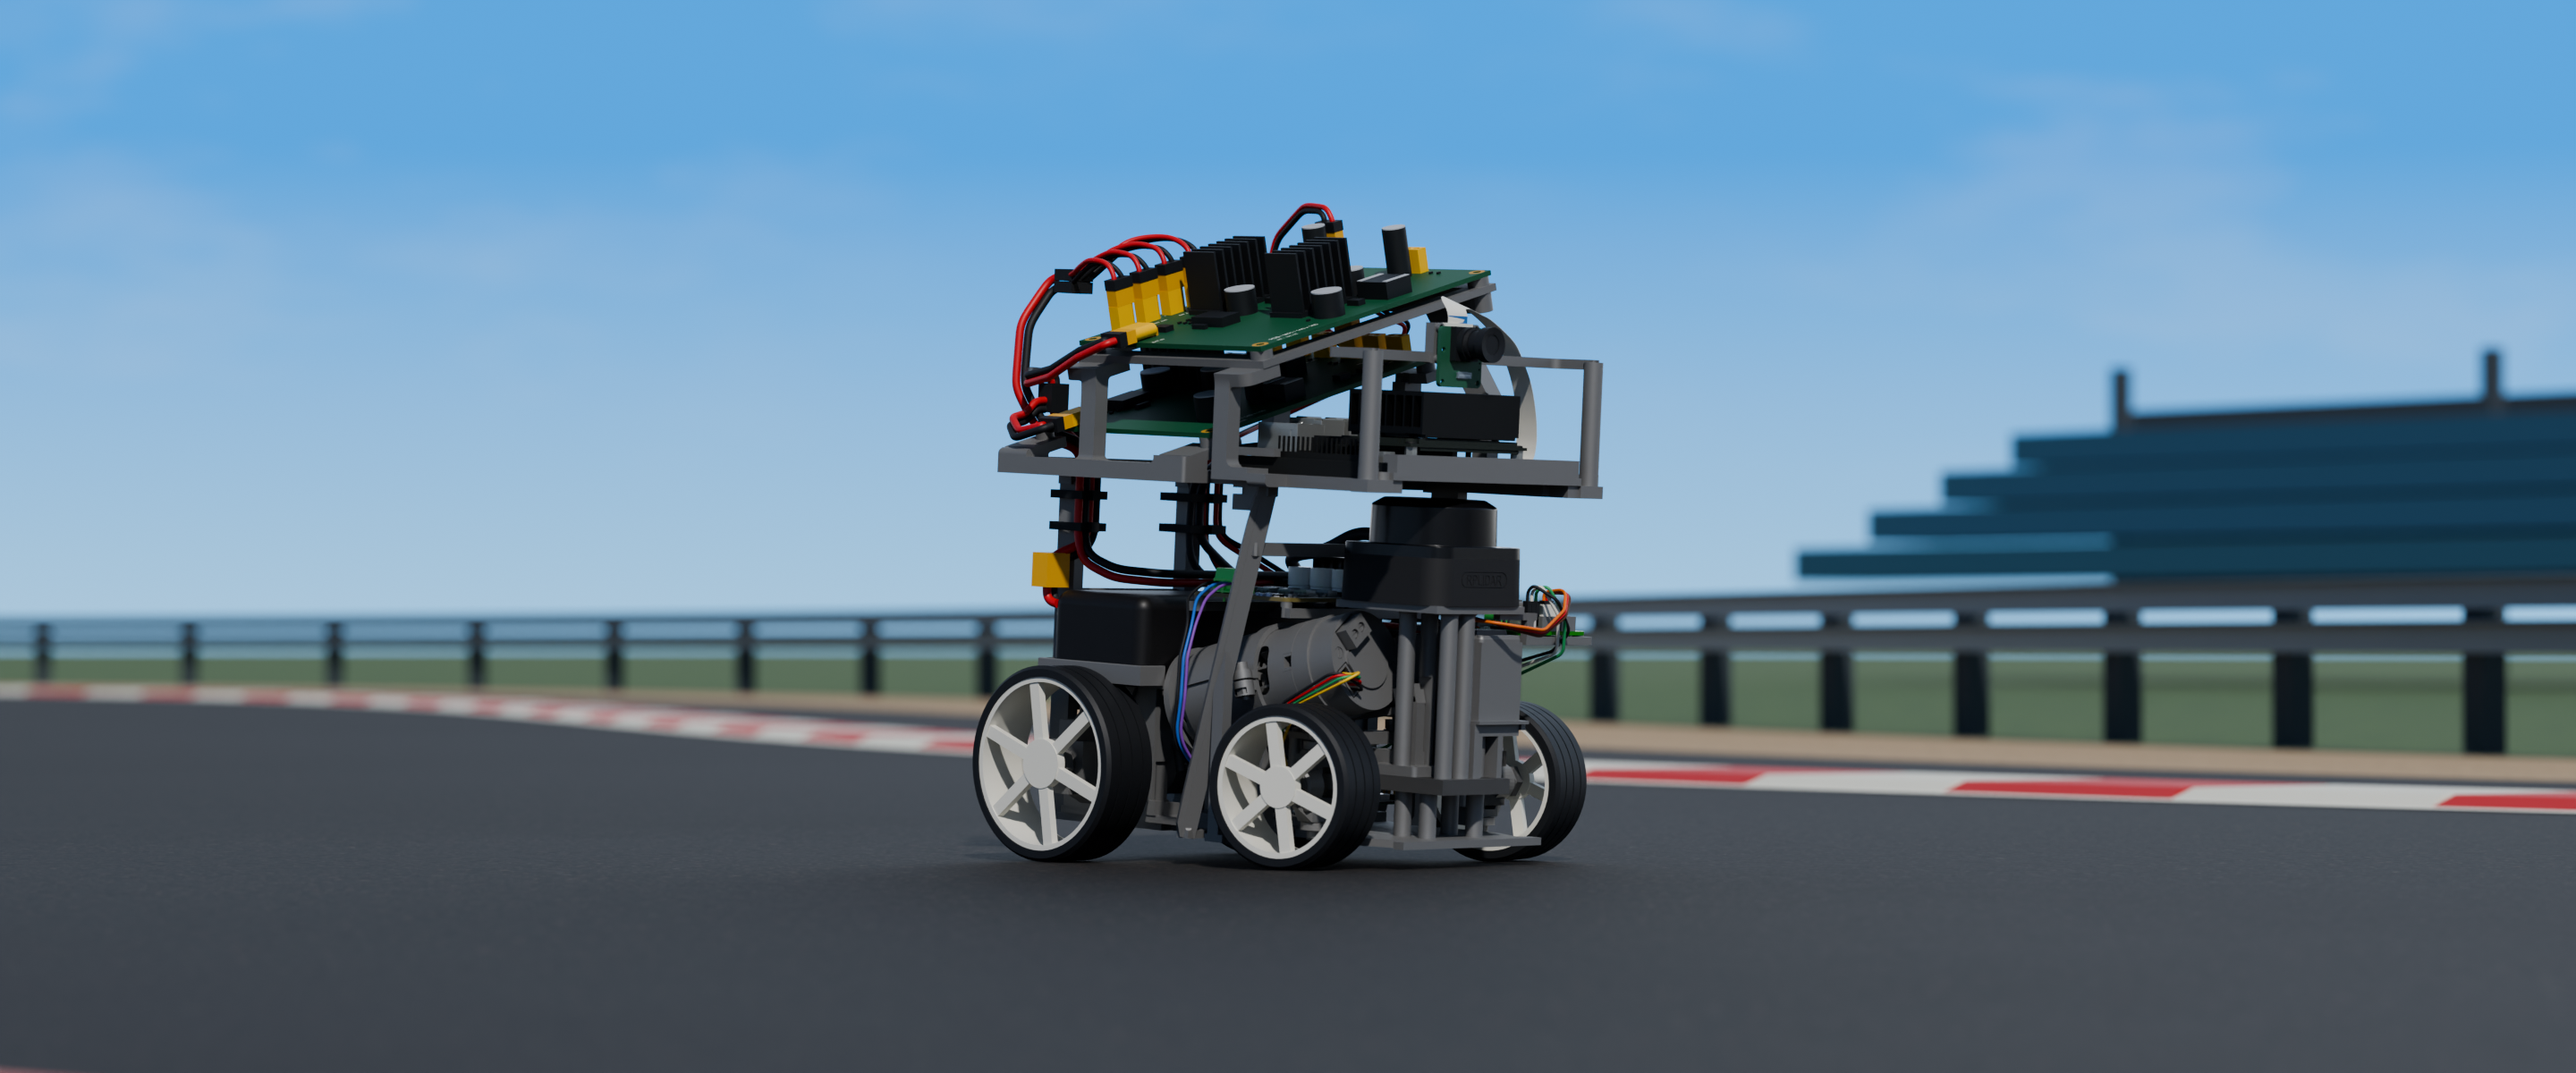
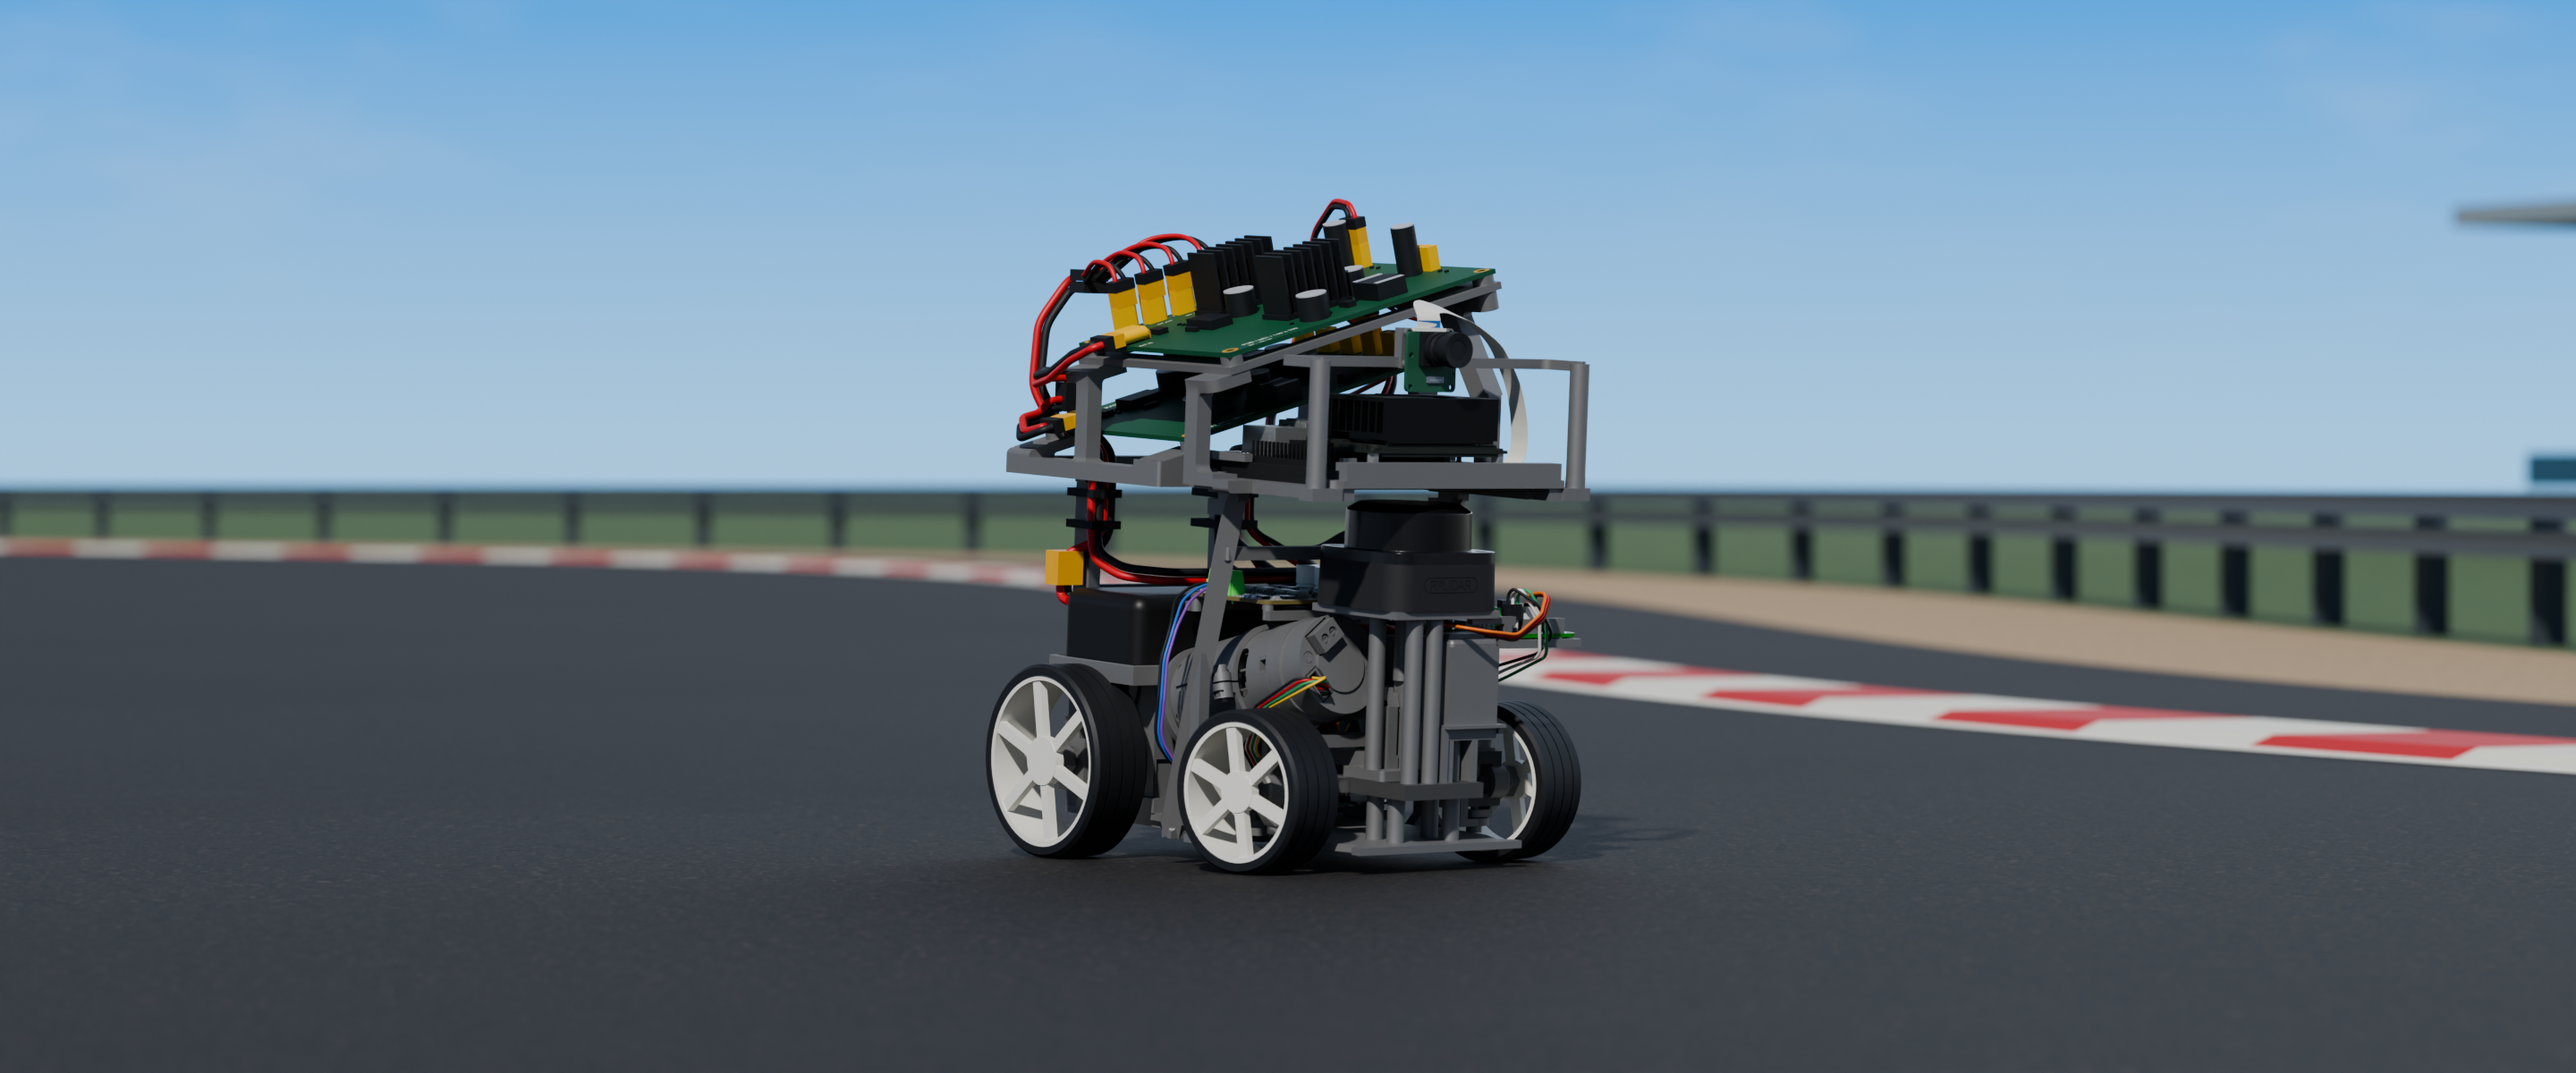
docs: refine the circuit hero lighting and angle

diff --git a/docs/activity/2026-11-18.md b/docs/activity/2026-11-18.md
@@ -1,6 +1,6 @@
 # 2026-11-18 활동 기록
 
 - **활동** 팀 차량 Fusion v34를 별도 허브에 복제해 홍보용 배선·외관을 모델링했다. 원본 v34와 홍보용 v6·v7을 각 참조 부품 22개가 포함된 F3Z로 내보내 SHA-256과 압축 무결성을 확인했다.
-- **결과** M01 CH1~4 전원을 한 쌍으로 합치고 MD20A 단자의 적·흑·적·흑 순서를 확인했다. 카메라 상단 FPC를 Jetson CSI 슬롯으로 연결했다. Jetson·LiDAR 재질, 검정 배터리 R6, MD20A 신호선 곡률, 흰색 휠과 후면 ArUco ID 49를 반영했다. v7에서는 전원·USB·LiDAR 배선 21가닥의 굴곡을 다듬었다. 렌더 추출에 솔리드 2,870개와 표면 792개를 포함해 모터·엔코더 및 서보 어댑터 형상을 복원했다. 야외 서킷의 정차·후면·주행 콘셉트를 2.4:1 화면과 자연광으로 렌더링하고, 최신 CAD 이미지 7장과 공식 610 mm 코스 컷 3장을 함께 게시했다. README 대표 캡션은 IT ARENA · 야외 서킷 콘셉트 샷으로 표기했다.
+- **결과** M01 CH1~4 전원을 한 쌍으로 합치고 MD20A 단자의 적·흑·적·흑 순서를 확인했다. 카메라 상단 FPC를 Jetson CSI 슬롯으로 연결했다. Jetson·LiDAR 재질, 검정 배터리 R6, MD20A 신호선 곡률, 흰색 휠과 후면 ArUco ID 49를 반영했다. v7에서는 전원·USB·LiDAR 배선 21가닥의 굴곡을 다듬었다. 렌더 추출에 솔리드 2,870개와 표면 792개를 포함해 모터·엔코더 및 서보 어댑터 형상을 복원했다. 야외 서킷의 정차·후면·주행 콘셉트를 2.4:1 화면과 자연광으로 렌더링하고, 최신 CAD 이미지 7장과 공식 610 mm 코스 컷 3장을 함께 게시했다. README 대표 캡션은 IT ARENA · 야외 서킷 콘셉트 샷으로 표기했다. 대표 컷은 카메라를 높인 전면 구도로 바꿨다. 두 시안의 중간 방향에서 들어오는 햇빛의 세기를 약 20% 높였다.
 - **한계·후속** 새 FPC와 보강 탭은 CAD 정적 검사에서 기판·프레임 겹침이 없었다. 상부 Y에서 M01·J01 CN1로 들어가는 두 전원 쌍은 공간 제약으로 기존 경로를 유지했다. 기존 배선의 작은 겹침이 남아 있으며 실차 배선 길이와 조립 공차는 미검증이다.
 - **근거** [홍보 이미지](../../artifacts/promotion/2026-11-18/), [공식 코스 형상](../track/OFFICIAL_V2026_11_06_AUDIT.md), [ESP32 통합 배선도](../hardware/schematics/esp32_gpio_wiring_v1.html), [케이블 층별 배치안](../hardware/WIRING_LAYERS_2026_11_13.md).
